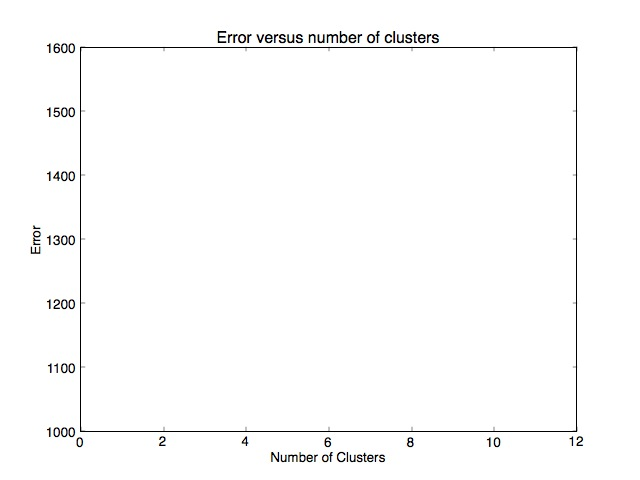
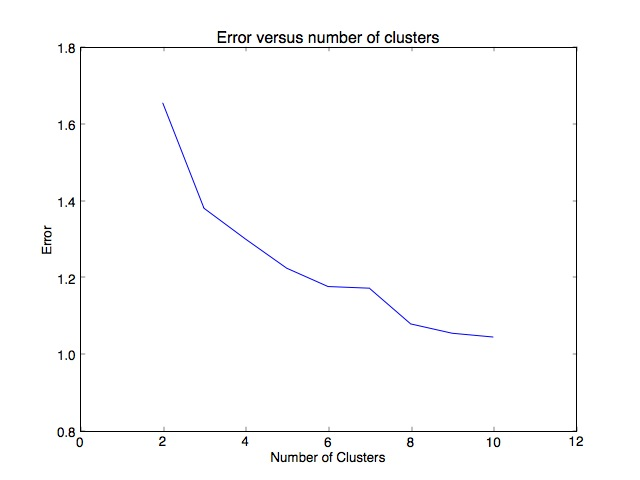
final cleanup

diff --git a/hw3/clust.py b/hw3/clust.py
@@ -392,7 +392,7 @@ def main():
         plt.title('Error versus number of clusters')
         plt.xlabel('Number of Clusters')
         plt.ylabel('Error')
-        plt.axis([0, 12, 0, 3])
+        plt.axis([0, 12, 0.8, 1.8])
 
         savefig('errorkmeans.jpg') # save the figure to a file
         plt.show() # show the figure
